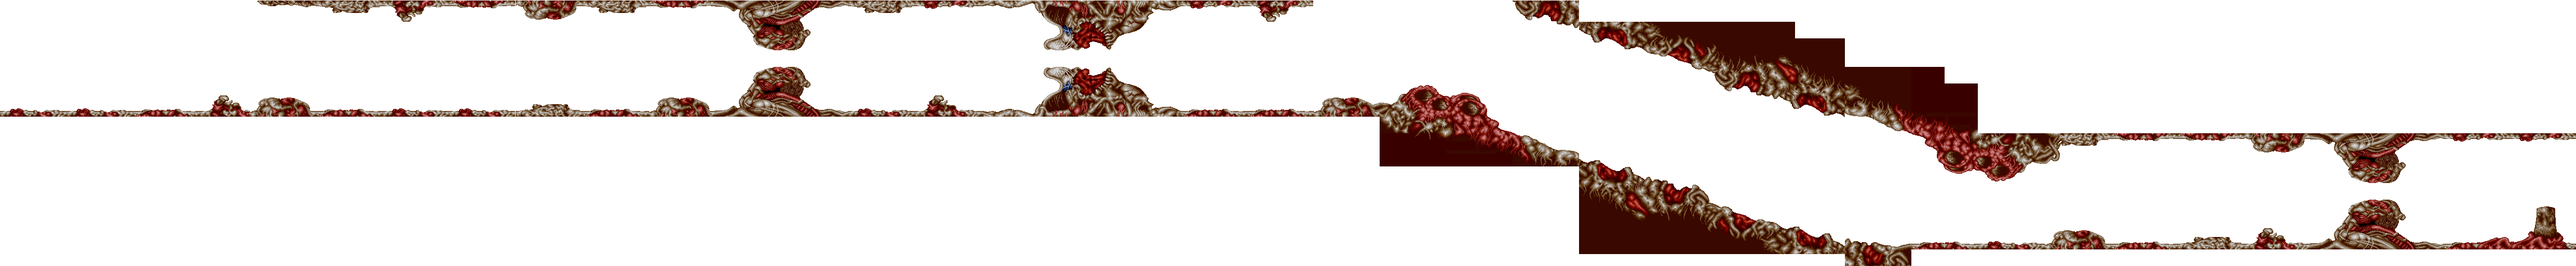
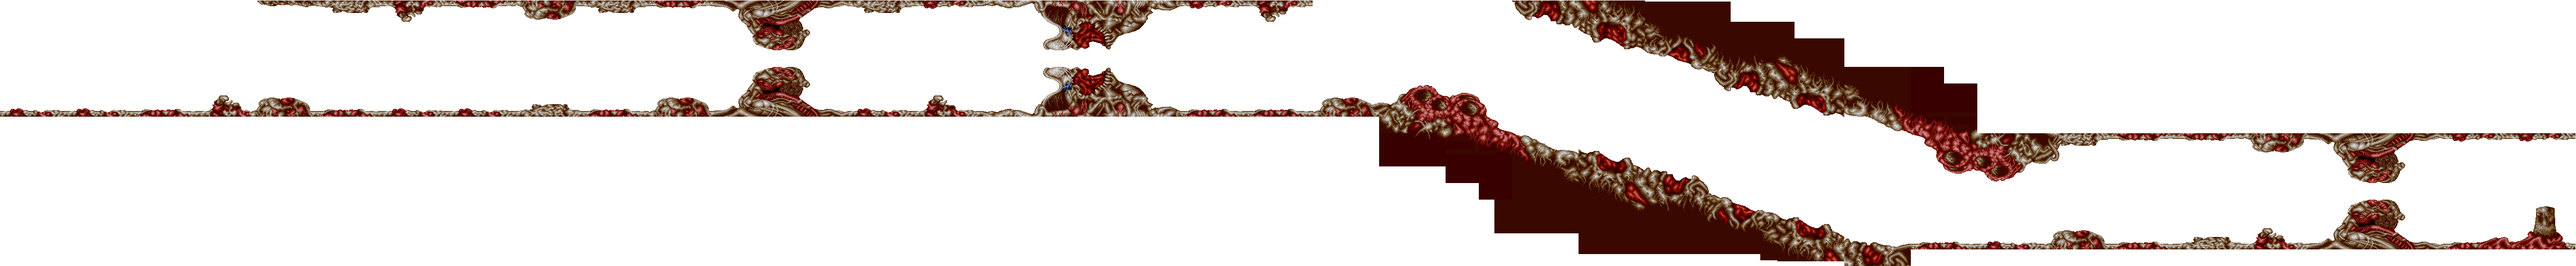
Scroll Lv1 Full , background and tilemap lv1 corrected

Changed region(s): [[0.1875, 0.2495, 1.0, 1.0], [0.5936, 0.0, 1.0, 0.6862], [0.1875, 0.0, 0.5311, 0.1871]]

diff --git a/X-Multiply/ModuleLevel1.cpp b/X-Multiply/ModuleLevel1.cpp
@@ -39,7 +39,7 @@ bool ModuleLevel1::Start()
 	backround = App->textures->Load("image/background completed.png");
 	tilemap1 = App->textures->Load("image/LV1_TilemapCompleted.png");
 	App->audio->MusicPlay("Sound/04_Into_the_Human_Body_Stage_1_.ogg", 0.5f);
-    //App->render->camera.x = 0;
+    //App->render->camera.x = 5000;
 	//App->render->camera.y = 0;
 	
 	App->player->Enable();
@@ -131,9 +131,12 @@ update_status ModuleLevel1::Update()
 	App->player->position.x += 1;
 	App->render->camera.x -= scrollSpeed;
 
-	if(App->render->camera.x < -6100 && App->render->camera.x > -7000) 
+	if (App->render->camera.x < -5300 && App->render->camera.x > -6835)
 	{
-		App->render->camera.y -= 1; 
+		if (App->render->camera.x % 3 == 0)
+		{
+			App->render->camera.y -= 2;
+		}
 	}
 
 	//Camera Diagonal Scroll. UNFINISHED.
